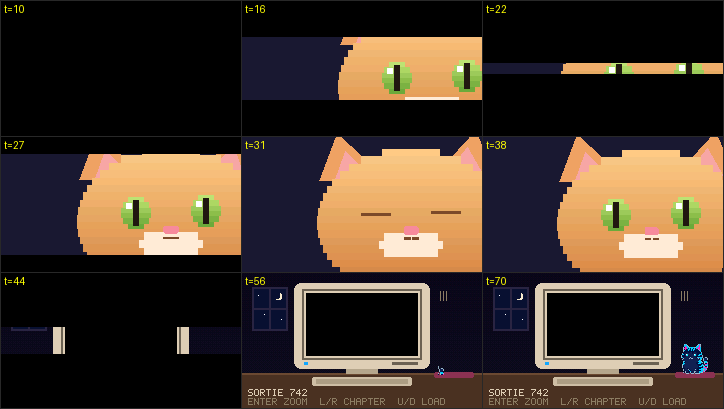
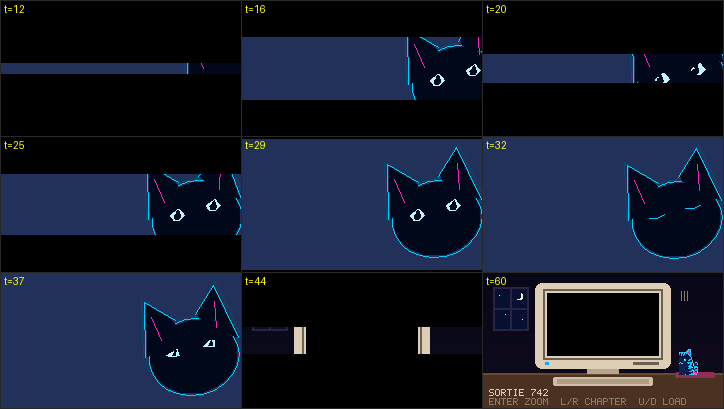
MEGADEMO WAKE: Tama backlit - a filled silhouette, a cyan rim, eyes acting
Tama peers in from the right in the dark, so it is backlit: a dark navy
silhouette with a cyan rim and a faint halo, magenta inner-ear creases (the
icon cat's cyber coat), and the eyes doing the acting: open and watching
with wide pupils, a glance aside and back, a slow blink, then half closed.

It is all paths filled on the procedural surface: plan tz fills a trapezoid
with horizontal lines (REPEAT_REG rows), and the head (24 points) and ears
(triangles) are cut every 6 rows into trapezoids, clipped to the screen.
The rim is drawn before the fills, so a head edge inside an ear is covered.
Fill area is raster cost, so the head is a third of the screen (7,770 of
8,192 steps, 87 draws). The view's banded face (cache templates, rects) is
gone. Host m32: eval peak 121,996 B, run peak 130,436 B.

Claude-Session: https://claude.ai/code/session_01DXWPa8YBbX3jYEzAHTc2jE

diff --git a/apps/kasane/megademo_act2.js b/apps/kasane/megademo_act2.js
@@ -157,25 +157,80 @@ function core(k, t) {
   const glow = rnd(9 * (1 - ramp(t, 117, 129)) ** 2);
   return {b: neg ? 0xad55 : fl ? 0x5acc : step ? 0x2945 : t >= 117 && glow ? glow << 11 | glow << 6 | glow : 0, s: 0, d: d};
 }
-// WAKE: Tama's face peering in, warm and filled. The view draws the head,
-// cheeks, eyes and nose (megademo_view.js); the ears are filled triangles
-// here, under them: ft sweeps a line between two edges from the apex
-// (inputs: both ends, then their steps). wakeAt(t) is the face's offset
-// (sliding in from the right, then breathing), shared with the view; the
-// right ear flicks at 24. From 42 (after sitting up) the TV is off.
+// WAKE: Tama peering in from the right, backlit in the dark: a filled
+// silhouette (paths filled by tz trapezoids of horizontal lines), a cyan
+// rim and a faint halo (the icon's cyber coat), magenta inner ears, and
+// the eyes acting: a glance aside, back at you, a slow blink, then half
+// closed. wakeAt(t) slides the head in, then breathes. From 42 (after the
+// viewer sits up) the TV is off. Fill area is kept under the 8192 raster
+// steps a frame: the head is clipped by the screen's right edge.
 const wakeAt = t => [rnd(56 * (1 - smooth(ramp(t, 6, 22))) + 2 * M.sin(t * .11)), rnd(1.5 * M.sin(t * .2))];
+const WA = -.22, WC = [194, 80], WS = .84;
+// Ear bases reach into the head, so a head rim never shows inside an ear.
+const HEAD = [], EARS = [[[-54, -8], [-42, -70], [-12, -42]], [[12, -44], [40, -72], [55, -8]]];
+for (let i = 0; i < 24; ++i) {
+  const a = i / 24 * 2 * M.PI, s = M.sin(a);
+  HEAD.push([52 * M.cos(a) * (1 + .06 * s), 41 * s + (s > 0 ? 6 * s * s : 0)]);
+}
 function wake(t) {
   if (t >= 42) return {b: 0, s: 0, d: []};
-  const o = wakeAt(t), f = t >= 24 && t < 28 ? 6 : 0, d = [];
-  const ear = (a, b, c, k, n) => {
-    const ax = a[0] + o[0], ay = a[1] + o[1];
-    d.push([k, [ax, ay, ax, ay, (b[0] - a[0]) / n, (b[1] - a[1]) / n, (c[0] - a[0]) / n, (c[1] - a[1]) / n]]);
+  const o = wakeAt(t), c = M.cos(WA), sn = M.sin(WA), d = [];
+  const tf = p => [WC[0] + o[0] + (p[0] * c - p[1] * sn) * WS, WC[1] + o[1] + (p[0] * sn + p[1] * c) * WS];
+  // A convex path, filled: spans every 6 rows, a trapezoid between each pair.
+  const span = (P, y) => {
+    let l = 1e9, r = -1e9;
+    for (let i = 0; i < P.length; ++i) {
+      const a = P[i], b = P[(i + 1) % P.length];
+      if ((a[1] - y) * (b[1] - y) <= 0 && a[1] !== b[1]) {
+        const x = a[0] + (b[0] - a[0]) * (y - a[1]) / (b[1] - a[1]);
+        l = M.min(l, x); r = M.max(r, x);
+      }
+    }
+    return [M.max(0, l), M.min(239, r)];
   };
-  // Bases level and one step a row: horizontal lines tile without gaps (the
-  // head hides the bases).
-  ear([96, -4], [78, 44], [146, 44], 0, 48); ear([104, 14], [94, 42], [132, 42], 1, 28);
-  ear([234 + f, -6], [190, 42], [256, 42], 0, 48); ear([226 + f, 10], [204, 38], [242, 38], 1, 28);
-  return {b: 0x18c6, s: 0, d: d};
+  const fill = (Q, k) => {
+    const P = Q.map(tf);
+    let y0 = 1e9, y1 = -1e9;
+    for (const p of P) { y0 = M.min(y0, p[1]); y1 = M.max(y1, p[1]); }
+    y0 = M.max(0, M.ceil(y0 + .01)); y1 = M.min(134, M.floor(y1 - .01));
+    for (let y = y0; y < y1; y += 6) {
+      const n = M.min(6, y1 - y), a = span(P, y), b = span(P, y + n);
+      if (a[0] <= a[1] && b[0] <= b[1]) d.push([k, [a[0], a[1], y, (b[0] - a[0]) / n, (b[1] - a[1]) / n, n]]);
+    }
+  };
+  const line = (Q, k, closed, g) => {
+    const P = Q.map(q => tf([q[0] * g, q[1] * g]));
+    for (let i = 0; i < P.length - (closed ? 0 : 1); ++i) {
+      const a = P[i], b = P[(i + 1) % P.length];
+      if (a[0] < 240 || b[0] < 240) d.push([k, a.concat(b)]);
+    }
+  };
+  const ear = EARS.map((e, i) => i && t >= 24 && t < 28 ? [e[0], [e[1][0] + 6, e[1][1] + 3], e[2]] : e);
+  // The rim first, just outside the edges (the halo outside it on the upper
+  // half only: raster budget); the fills then cover where a head edge runs
+  // inside an ear, so only the outline stays lit.
+  line(HEAD.slice(12).concat([HEAD[0]]), 3, false, 1.1);
+  line(HEAD, 2, true, 1.04);
+  for (const e of ear) { line(e, 3, false, 1.1); line(e, 2, false, 1.04); }
+  fill(ear[0], 0); fill(ear[1], 0); fill(HEAD, 0);
+  // The inner ear's crease, magenta like the coat's stripes.
+  for (const e of ear) {
+    const m = [(e[0][0] + e[2][0]) / 2, (e[0][1] + e[2][1]) / 2];
+    line([m, [m[0] * .35 + e[1][0] * .65, m[1] * .35 + e[1][1] * .65]], 4, false, 1);
+  }
+  // Eyes: open 1 (watching), a slow blink at 30, then .6 (at ease); the
+  // pupils wide in the dark, glancing aside at 18..24.
+  const op = t < 30 ? 1 : t < 34 ? M.abs(t - 32) / 2 : .6, gx = t >= 18 && t < 24 ? -3 : 0;
+  for (const ex of [-22, 22]) {
+    const ey = ex < 0 ? -6 : -8;
+    if (op < .2) { line([[ex - 9, ey], [ex, ey + 2], [ex + 9, ey]], 2, false, 1); continue; }
+    const h = 7 * op;
+    fill([[ex - 10, ey], [ex - 4, ey - h], [ex + 4, ey - h], [ex + 10, ey], [ex + 4, ey + h], [ex - 4, ey + h]], 1);
+    const px = ex + gx, ph = h * .85;
+    fill([[px - 3, ey - ph], [px + 3, ey - ph], [px + 4, ey], [px + 3, ey + ph], [px - 3, ey + ph], [px - 4, ey]], 0);
+    line([[px - 2, ey - h * .45], [px - 1, ey - h * .45]], 5, false, 1);
+  }
+  return {b: 0x218b, s: 0, d: d};
 }
 const RC = [28, 108];
 const A2 = {
@@ -188,7 +243,7 @@ const A2 = {
     if (!i) return corrList(k.c).concat([['st', z.st]]);
     if (i === 2) return [['tri'], ['qd', GR], ['qd', OR], ['sg', GR], ['ry'], ['st', z.st], ['nz', k.k.n]];
     if (i === 3) return [['ln', WH], ['ln', BL]];
-    if (i === 4) return [['ft', 0xed0c, 48], ['ft', 0xf534, 28]];
+    if (i === 4) return [['tz', 0x0043], ['tz', 0xbf9f], ['ln', 0x067f], ['ln', 0x0a4d], ['ln', 0xf917], ['ln', WH]];
     const p = [['st', z.st], ['gr'], ['la', z.ln], ['ci', z.cr, z.cc, 3.2 / z.cc], ['sa', z.sa],
       ['tr', z.sa, z.ts]];
     for (let b = 0; b < 8; ++b) p.push(['sh', b]);

diff --git a/apps/kasane/megademo_view.js b/apps/kasane/megademo_view.js
@@ -42,33 +42,6 @@ PILOT CONFIRMED|LEAVE THE BODY. CROSS THE RIVER|P1L0T C0NF1RM3D';
 // Tama sits on the cushion; the body (the viewer's own) sleeps over the
 // keyboard while the mind is away: shoulders, then the head.
 const HOME = [196, 70, 228, 102], BODY = [[90, 104, 150, 117, 5, 0x56506eff], [112, 98, 130, 112, 7, 0x2c2638ff]];
-// WAKE's face, over act2's ears. A roundRect's radius is at most 8, so
-// the round parts are horizontal bands (an ellipse, shaded down its rows)
-// in cache templates: one instance ref moves a whole part. Head with
-// cheeks; open eyes (iris, slit pupil, highlight); closed eyes (a line).
-const mix = (a, b, u) => [24, 16, 8, 0].reduce((s, k) =>
-  s + (rnd(((a >>> k) & 255) * (1 - u) + ((b >>> k) & 255) * u) << k >>> 0), 0);
-function bands(cx, cy, rx, ry, n, c0, c1) {
-  const r = [];
-  for (let i = 0; i < n; ++i) {
-    const y0 = cy - ry + 2 * ry * i / n, y1 = y0 + 2 * ry / n, w = rx * M.sqrt(1 - ((y0 + y1) / 2 - cy) ** 2 / ry / ry);
-    r.push({bounds: [rnd(cx - w), rnd(y0), rnd(cx + w), rnd(y1)], color: mix(c0, c1, i / (n - 1))});
-  }
-  return r;
-}
-const IRIS = [0xb8e070ff, 0x6ea838ff], CREAM = 0xfdebd2ff, LID = 0x7a4a2aff;
-// Nose and a small mouth (plain refs: the 48 rect commands shared by every
-// template are used up; lives has 3).
-const MOUTH = [[162, 89, 178, 98, 4, 0xf0889aff], [162, 100, 170, 103, 1, LID], [170, 100, 178, 103, 1, LID]];
-// Built by the first frame(), not while the app evaluates (its arrays would
-// add to the compile's peak) nor inside a replace (cache.create is BUSY).
-let FACE = null;
-const face = () => [V.cache.create(bands(170, 86, 94, 74, 20, 0xf8c884ff, 0xd0803eff)
-    .concat(bands(157, 108, 19, 12, 3, CREAM, CREAM), bands(183, 108, 19, 12, 3, CREAM, CREAM))),
-  V.cache.create(bands(135, 77, 15, 16, 6, IRIS[0], IRIS[1]).concat(bands(205, 75, 15, 16, 6, IRIS[0], IRIS[1]),
-    [[132, 64, 138, 90], [202, 62, 208, 88]].map(b => ({bounds: b, color: 0x241a14ff})),
-    [[125, 67, 131, 73], [195, 65, 201, 71]].map(b => ({bounds: b, color: 0xffffffff})))),
-  V.cache.create([[120, 76, 150, 79], [190, 74, 220, 77]].map(b => ({bounds: b, color: LID})))];
 // The sortie number goes up every night (each WAKE); the memory of the
 // briefing clouds with it: letters turn to digits, more each night.
 let sortie = 741;

diff --git a/apps/kasane/megademo_act1.js b/apps/kasane/megademo_act1.js
@@ -121,7 +121,8 @@ function prog(src, arg) {
 // (drawn in the image's corner: a second surface cost two 10 KB frames), ln a line; CORE:
 // tri a triangle (colour from input 6), qd a closed quad, sg two segments,
 // ry rays round a centre (REPEAT_REG), nz scan noise (BREAK_IF_GT); WAKE:
-// ft a filled triangle (a line swept $1 times between two edges).
+// tz a filled trapezoid (input 5 rows of horizontal lines, x0..x1 at y,
+// stepping by inputs 3 and 4): a path filled like a bucket fill.
 const T = {
   fr: 'U6 I8,6 I9,7 S13,-1 M10,9,13 M14,2,13 A6,0,4 A6,6,14 M14,3,13 A7,1,5 A7,7,14 S11,120 S12,67 R$0 A13,11,0 A14,12,1 V13,14 A13,11,2 A14,12,3 L13,14,$1 A13,11,4 A14,12,5 L13,14,$1 A13,11,6 A14,12,7 L13,14,$1 A13,11,0 A14,12,1 L13,14,$1 X0,1,8,9,10,13,14,15 X2,3,8,9,10,13,14,15 X4,5,8,9,10,13,14,15 X6,7,8,9,10,13,14,15 E',
   ra: 'U6 S9,-1 M6,5,9 S7,120 S8,67 R$0 A9,7,0 A10,8,1 V9,10 X0,1,4,5,6,9,10,11 A9,7,0 A10,8,1 L9,10,$1 A9,7,2 A10,8,3 V9,10 X2,3,4,5,6,9,10,11 A9,7,2 A10,8,3 L9,10,$1 E',
@@ -138,7 +139,7 @@ const T = {
   tri: 'U7 V0,1 l6,2,3 l6,4,5 l6,0,1',
   qd: 'U8 V0,1 L2,3,$0 L4,5,$0 L6,7,$0 L0,1,$0',
   sg: 'U8 V0,1 L2,3,$0 V4,5 L6,7,$0',
-  ft: 'U8 R$1 V0,1 L2,3,$0 A0,0,4 A1,1,5 A2,2,6 A3,3,7 E',
+  tz: 'U6 S6,1 Q5 V0,2 L1,2,$0 A0,0,3 A1,1,4 A2,2,6 E',
   ry: 'U8 S8,1.5707963 Q5 A9,4,8 N9,9 N10,4 M11,9,2 A11,11,0 M12,10,2 A12,12,1 V11,12 M11,9,3 A11,11,0 M12,10,3 A12,12,1 l7,11,12 A4,4,6 E',
   nz: 'U3 S3,0 S4,1 S5,67 S6,120 S7,7.31 S8,3.97 R$0 A3,3,4 B3,1 M9,3,7 A9,9,0 N9,9 M9,9,5 A9,9,5 M10,3,8 A10,10,0 N10,10 M10,10,6 A10,10,6 V10,9 A11,10,2 L11,9,33808 E',
   rd: 'U3 S4,1.5707963 S5,.3926991 S6,1.45 R$0 S3,0 A8,3,4 N8,8 M8,8,2 A8,8,0 N9,3 M9,9,2 A9,9,1 V8,9 R16 A3,3,5 A8,3,4 N8,8 M8,8,2 A8,8,0 N9,3 M9,9,2 A9,9,1 L8,9,6055 E M2,2,6 E S10,-1 M11,2,10 A12,11,0 A13,2,0 V12,1 L13,1,6055 A12,11,1 A13,2,1 V0,12 L0,13,6055',

diff --git a/apps/kasane/megademo_set.js b/apps/kasane/megademo_set.js
@@ -68,12 +68,7 @@ function build(tx, room) {
   mon = tx.image({resource: monRes, bounds: MON, clip: FULL, sourceWidth: 112, sourceHeight: 63});
   mon.setVisible(tx, false);
   // WAKE: Tama walks to the cushion in front of the TV (over its image).
-  if (scene === 7) {
-    R.pet = tx.image({resource: pets, bounds: HOME, variant: 3, frame: 0});
-    // The face only in the full-screen set (the room's has no room for it).
-    if (!room) R.face = FACE.map(c => tx.instantiate(c, {offset: [0, 0]}))
-      .concat(MOUTH.map(b => tx.roundRect({bounds: b.slice(0, 4), radius: b[4], color: b[5]})));
-  }
+  if (scene === 7) R.pet = tx.image({resource: pets, bounds: HOME, variant: 3, frame: 0});
   if (room && scene === 6) R.off = text([96, 46, 150, 58], 'NO SIGNAL', 'caption', 0xffffffff);
   if (scene < 3) {
     const N = NEWS.replace('~', sortie).split('|').map(gb);
@@ -140,20 +135,6 @@ function patch(tx, f) {
   for (let i = 0; i < hud.length; ++i) {
     const v = on && t >= hw[3 * i] && t < hw[3 * i + 1] ? 1 : 0;
     if (v !== hw[3 * i + 2]) { hud[i].setVisible(tx, v > 0); hw[3 * i + 2] = v; }
-  }
-  // WAKE's face moves with the ears (wakeAt); a slow blink at 30 (the eyes
-  // close to a line). Shown at full screen until the cut at 42.
-  if (R.face) {
-    const o = wakeAt(t), v = on && t < 42, bl = t >= 30 && t < 34;
-    for (let i = 0; i < 3; ++i) {
-      R.face[i].place(tx, {offset: o});
-      R.face[i].setVisible(tx, v && (i < 1 || bl === (i > 1)));
-    }
-    for (let i = 0; i < 3; ++i) {
-      const b = MOUTH[i], r = R.face[3 + i];
-      r.setRect(tx, [b[0] + o[0], b[1] + o[1], b[2] + o[0], b[3] + o[1]]);
-      r.setVisible(tx, v);
-    }
   }
   // Tama: in WAKE (after its face, act2's wake(), and the blink of sitting
   // up) it walks to the cushion; elsewhere it sits there and blinks.

diff --git a/apps/kasane/megademo_loop.js b/apps/kasane/megademo_loop.js
@@ -9,7 +9,6 @@ globalThis.frame = function (buttons) {
     // frame, after the compile's memory is gone (during evaluation the
     // CORE build found no 10 KB holes on the device, 2026-10-28).
     boot = false;
-    FACE = face();
     H.beginFrame(0);
     while (pend.length) live.push(reg(pend.shift()));
   }

diff --git a/tools/kasane_contract/test_proc_megademo_js.c b/tools/kasane_contract/test_proc_megademo_js.c
@@ -222,8 +222,9 @@ int main(int argc, char **argv) {
         }
     }
     /* Plans are registered per scene now, the next scene's over the last
-     * frames of the running one. The app opens with WAKE (72 frames, 2
-     * plans: Tama's ears, 4 draws until frame 42, then nothing), which
+     * frames of the running one. The app opens with WAKE (72 frames, 6
+     * plans: Tama's backlit silhouette, drawn until frame 42, then
+     * nothing), which
      * prefetches Act I phase 0; then each
      * 16-frame news beat plays twice (frames 0..95), the same draws both
      * times. */
@@ -234,12 +235,12 @@ int main(int argc, char **argv) {
         "throw Error('registration during evaluation');"
         "if(procMegademo.names[7]!=='WAKE'||procMegademo.len[7]!==72)throw Error('WAKE');"
         "for(let i=0;i<72;i++){frame();const f=__procCalls.frames[i];"
-        "if(!f||f.draws.length!==(i<42?4:0))throw Error('WAKE frame '+i)}"
+        "if(!f||(f.draws.length>0)!==(i<42))throw Error('WAKE frame '+i)}"
         "__procCalls.frames.length=0;"
-        "frame();if(__procCalls.registered.length!==7||__procCalls.live.size!==5)"
+        "frame();if(__procCalls.registered.length!==11||__procCalls.live.size!==5)"
         "throw Error('registration by the first news frame');"
         "const same=(a,b)=>JSON.stringify(a)===JSON.stringify(b);"
-        "for(let layer=0;layer<5;layer++){const r=__procCalls.registered[2+layer];"
+        "for(let layer=0;layer<5;layer++){const r=__procCalls.registered[6+layer];"
         "if(!same(r.program,procMegademo.program(0,layer)))throw Error('registered program');"
         "if((r.batch===undefined)!==(layer!==3))throw Error('unexpected batch')}"
         "for(let phase=0;phase<3;phase++){const b=procMegademo.pointBatch(phase,3);"

diff --git a/tools/kasane_contract/test_pocket_proc_qjs.c b/tools/kasane_contract/test_pocket_proc_qjs.c
@@ -205,9 +205,8 @@ int main(int argc,char **argv){
         }
         REQUIRE(!JS_IsException(result));JS_FreeValue(ctx,result);free(source);
     }
-    /* The app opens with WAKE: APP_WAKE_TICKS frames (Tama's ears under the
-     * view's face, then the TV off), which prefetch the news. The last frame
-     * is black. */
+    /* The app opens with WAKE: APP_WAKE_TICKS frames (Tama backlit, then the
+     * TV off), which prefetch the news. The last frame is black. */
     eval_ok(ctx,"if(procMegademo.len[7]!==72)throw Error('WAKE length')");
     for(unsigned tick=0;tick<APP_WAKE_TICKS;tick++){
         eval_ok(ctx,"frame()");
